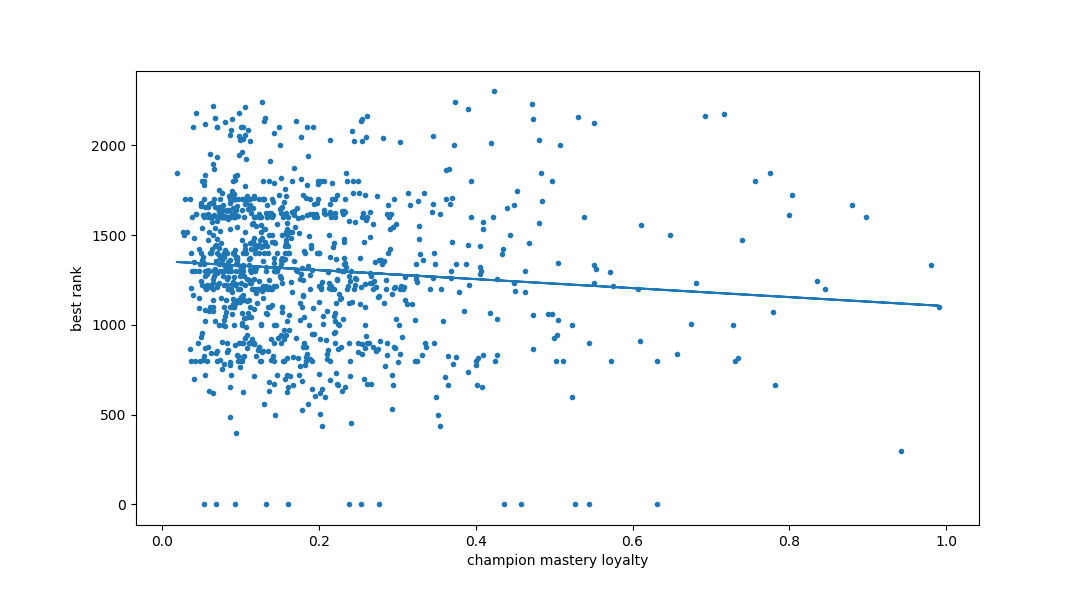
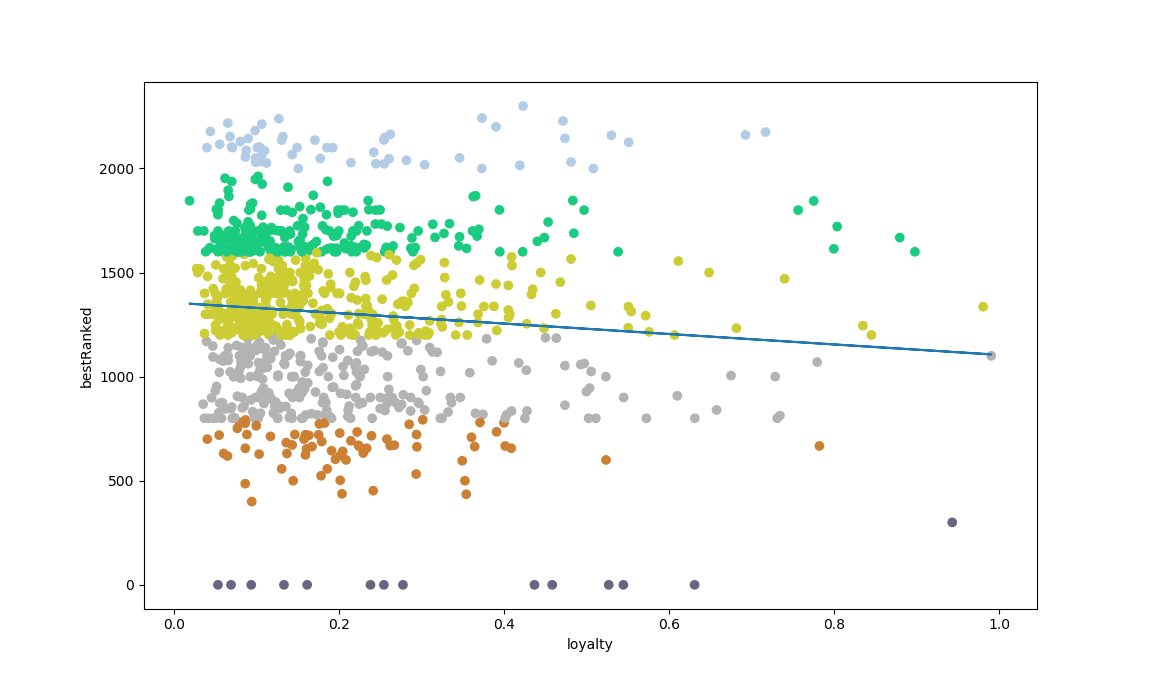
making graphs more colorful

diff --git a/driver.py b/driver.py
@@ -5,6 +5,7 @@ import json
 from datetime import datetime
 import time
 import numpy as np
+from numpy.polynomial.polynomial import polyfit
 from scipy import stats
 import matplotlib.pyplot as plt
 import pandas as pd
@@ -117,14 +118,20 @@ classes = ['Fighter', 'Assassin', 'Mage', 'Support', 'Tank', 'Marksman']
 players_by_class = {clss: set(i for i,p in enumerate(sample_players) if (clss in champs[str(sample_favs[i])]['tags'])) for clss in classes}
 
 
-def make_category(col, pred):
-	return set(i for i,x in enumerate(col) if pred(i,x))
+
 #some categories
 Yasuo_mains = set(i for i,p in enumerate(sample_players) if sample_favs[i] == 157)
+
 hardcore_players = set(i for i,t in enumerate(sample_total_ranked) if t > 1500)
 casual_players = set(i for i,t in enumerate(sample_total_ranked) if t < 10)
+
 fan_children = set(i for i,l in enumerate(sample_loyalties) if l > .5)
 dabblers = set(i for i,l in enumerate(sample_loyalties) if l < .2)
+
+support_players = set(i for i in range(n) if ((i in players_by_class['Support']) or (i in players_by_class['Tank'] and not (i in players_by_class['Fighter']))))
+
+def category_bools(category):
+	return [(i in category) for i in range(n)]
 
 def class_main_bools(clss):
 	mains = players_by_class[clss]
@@ -143,9 +150,35 @@ playerDF = pd.DataFrame({
 	'support': class_main_bools('Support'),
 	'marksman': class_main_bools('Marksman'),
 	'tank': class_main_bools('Tank'),
-	'yasuo': [(i in Yasuo_mains) for i in range(n)]
+	'yasuo': category_bools(Yasuo_mains),
+	'controlledRank': sample_best_ranked / sample_total_ranked,
+	'supportPlayer': category_bools(support_players),
+	#'hardcore': category_bools(hardcore_players),
+	#'casual': category_bools(casual_players)
 })
 
+#playerDF = playerDF[playerDF.totalRanked != 0]
+
+
+'''
+champion dataframe
+'''
+#win rate
+#play rate
+#classes
+#gender?
+
+
+
+'''
+team/match dataframe
+'''
+#win
+#first dragon
+#game length?
+#number of unique classes on team
+#total rank of players
+#total other things of players
 
 
 def likes_class(player_index, clss):
@@ -217,7 +250,10 @@ def numerical_ranking(league_entry):
 def tier_color(num_rank):
 	return [(.4,.4,.5), (.8,.5,.2), (.7,.7,.7), (.8,.8,.2), (.1,.8,.5), (.7,.8,.9), (0,0,0)][num_rank // 400]
 
-tier_color_sample = [tier_color(r) for r in sample_best_ranked]
+tier_color_sample = np.array([tier_color(r) for r in sample_best_ranked])
+
+def color_by_category(category):
+	return np.array(["blue" if (i in category) else "red" for i in range(n)])
 
 #returns two lists
 def league_info(summoner_id):
@@ -263,9 +299,42 @@ graphs
 player_set = set(sample_players)
 idset = set(range(len(sample_players)))
 
-def graph(x,y):
+#for quick graphs
+def graph(x,y, **kwargs):
 	fig, ax = plt.subplots()
-	ax.scatter(x,y,c=tier_color_sample)
+	logx = kwargs.get('logx')
+	xlabel = kwargs.get('xlabel')
+	ylabel = kwargs.get('ylabel')
+	fitline = kwargs.get('fitline')
+
+	if logx:
+		ax.set_xscale("log")
+	if xlabel:
+		ax.set_xlabel(xlabel)
+	if ylabel:
+		ax.set_ylabel(ylabel)
+
+	mask = np.isfinite(x) & np.isfinite(y)
+	kwarg_color = kwargs.get('c')
+	c = kwarg_color if kwarg_color is not None else tier_color_sample
+
+	c = c[mask]
+	x = x[mask]
+	y = y[mask]
+
+	ax.scatter(x,y,c=c)
+
+	if fitline:
+		b, m = polyfit(x, y, 1)
+		ax.plot(x, b+m*x, '-')
+
+	return ax
+
+def graph_from_df(x, y, **kwargs):
+	kwargs['xlabel'] = x
+	kwargs['ylabel'] = y
+	return graph(playerDF[x].to_numpy(), playerDF[y].to_numpy(), **kwargs)
+
 
 def graph_by_class(ax,x,y,clss):
 	lovers = players_by_class[clss]
@@ -275,16 +344,20 @@ def graph_by_class(ax,x,y,clss):
 	ax.scatter([x[i] for i in lovers], [y[i] for i in lovers], color="blue", s = size*1.5)
 	ax.scatter([x[i] for i in haters], [y[i] for i in haters], color="red", s = size)
 	ax.set_title(clss)
+	return ax
 
 def graph_by_all_classes(x, y):
 	fig, axs = plt.subplots(2,3)
-	for i,ax in enumerate(axs.flatten()):
+	axs = axs.flatten()
+	for i,ax in enumerate(axs):
 		graph_by_class(ax, x, y, classes[i])
+	return axs
 
 def graph_by_Yasuo_mains(x, y):
 	fig, ax = plt.subplots()
 	ax.scatter(x,y,color="blue", s=2)
 	ax.scatter([x[i] for i in Yasuo_mains], [y[i] for i in Yasuo_mains], color="red", s=3)
+	return ax
 
 
 
